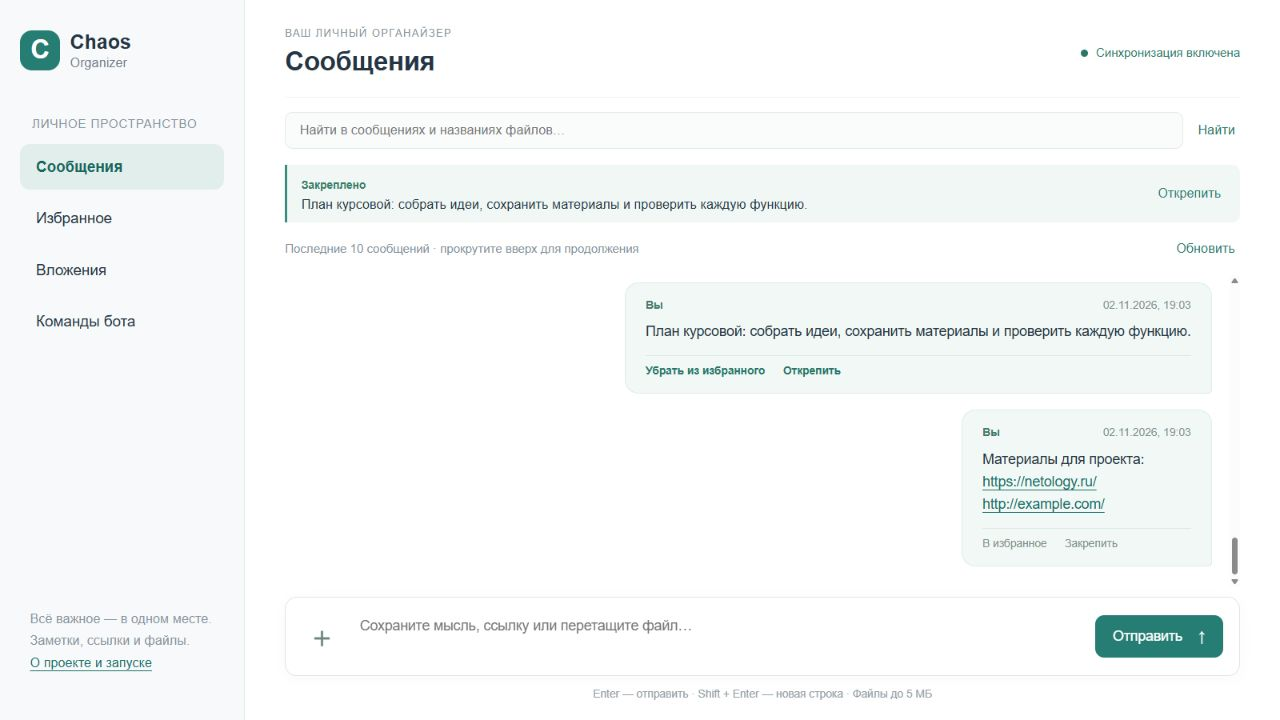
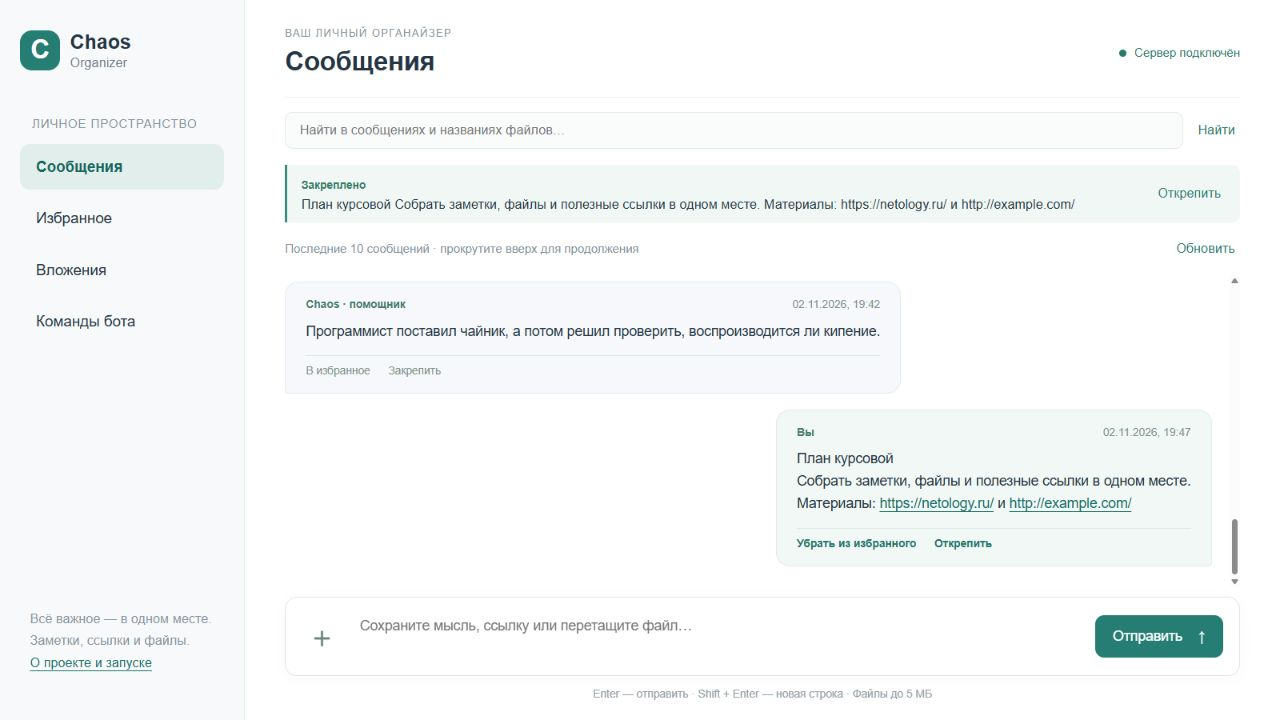
Document verified public deployment

diff --git a/README.md b/README.md
@@ -6,9 +6,9 @@
 
 [Официальное задание](https://github.com/netology-code/ahj-diploma) · [GitHub Pages](https://gody1403.github.io/ahj-diploma/)
 
-**Публичный запуск:** frontend на [GitHub Pages](https://gody1403.github.io/ahj-diploma/) подключается к [backend на Render Free](https://ahj-diploma-api.onrender.com/api/health). Адрес задан переменной GitHub Actions `CHAOS_API_URL`. Проверка публичного подключения выполняется отдельно от локальных проверок. Конфигурация AppVeyor подготовлена, но интеграция с аккаунтом ещё не активирована.
+**Публичный запуск проверен:** frontend на [GitHub Pages](https://gody1403.github.io/ahj-diploma/) подключён к [backend на Render Free](https://ahj-diploma-api.onrender.com/api/health). Адрес задан переменной GitHub Actions `CHAOS_API_URL`. Реальные HTTPS/WSS-запросы и основные сценарии опубликованного приложения проверены 2 ноября 2026 года. Конфигурация AppVeyor подготовлена, подключение аккаунта ещё не подтверждено.
 
-Все изображения ниже — настоящие скриншоты локального приложения с работающим сервером.
+Все изображения ниже — настоящие скриншоты работающего приложения. Главная страница снята на GitHub Pages с backend Render; остальные изображения — при локальной проверке.
 
 ![Главная страница: сообщения, ссылки и закрепление](docs/screenshots/overview.jpg)
 
@@ -141,6 +141,8 @@ npm audit
 
 Ручной workflow **Check public API** проверяет настоящий HTTPS/WSS-сервер из `CHAOS_API_URL`: историю, поиск, файлы и скачанные байты, закрепление, избранное, категории и команды. Он добавляет небольшие проверочные сообщения и файлы в общее демонстрационное пространство. Запускайте его отдельно через Actions → Run workflow.
 
+Публичная проверка [HTTPS/WSS API](https://github.com/GODY1403/ahj-diploma/actions/runs/41482653176) прошла успешно. Непосредственно на GitHub Pages в браузере проверены страницы истории по 10 записей, поиск раннего сообщения, отправка текста и ссылки, загрузка PNG/WAV/WebM кнопкой, скачивание всех четырёх типов файлов, воспроизведение WAV и WebM, закрепление с заменой и откреплением, избранное после обновления страницы, категории, пять команд и синхронизация двух вкладок без дублей. Превышение 5 МБ показывает понятную ошибку и не блокирует дальнейшую работу. Ошибок JavaScript в рабочей сессии не обнаружено. Проверки недоступности сервера и обработчика Drag & Drop выполнены локально; физический жест из Проводника на публичном сайте пока требует ручного подтверждения.
+
 ## API
 
 Все маршруты относятся к одному общему пространству. JSON-запросы передаются с `Content-Type: application/json`.
@@ -174,7 +176,7 @@ Workflow `.github/workflows/pages.yml` запускается при push в `ma
 
 ### Backend на Render Free
 
-Подготовлен `render.yaml`: Node.js 24.22.1, Root Directory `backend`, Build Command `npm ci`, Start Command `npm start`, тариф **Free**, порт из `PORT`, проверка `/api/health`.
+Сервис [ahj-diploma-api.onrender.com](https://ahj-diploma-api.onrender.com/api/health) развёрнут по `render.yaml`: Node.js 24.22.1, Root Directory `backend`, Build Command `npm ci`, Start Command `npm start`, тариф **Free**, порт из `PORT`, проверка `/api/health`. Для повторного развёртывания:
 
 1. Войдите в свой аккаунт Render → New → Blueprint.
 2. Подключите `GODY1403/ahj-diploma`, ветку `main`, и примените `render.yaml`. Перед созданием проверьте тариф **Free**.
@@ -182,7 +184,7 @@ Workflow `.github/workflows/pages.yml` запускается при push в `ma
 4. В GitHub → Settings → Secrets and variables → Actions → Variables добавьте `CHAOS_API_URL` с HTTPS-адресом сервера, заканчивающимся `/`.
 5. Запустите Build and deploy через Actions → Run workflow и проверьте операции на опубликованной странице.
 
-Платные ресурсы не нужны. Публичный запуск не считается подтверждённым, пока реальные операции не проверены через HTTPS API.
+Платные ресурсы не нужны. После повторного развёртывания проверяйте реальные операции через HTTPS API и опубликованный интерфейс.
 
 ### AppVeyor
 
@@ -194,9 +196,9 @@ Workflow `.github/workflows/pages.yml` запускается при push в `ma
 
 ## Ограничения и демонстрационные данные
 
-- Сообщения, избранное, закрепление и загруженные файлы находятся только в памяти процесса. После перезапуска изменения исчезают, а стартовые демоданные создаются заново.
+- Сообщения, избранное, закрепление и загруженные файлы находятся только в памяти процесса. После перезапуска, в том числе при автоматическом развёртывании Render, изменения исчезают, а стартовые демоданные создаются заново.
 - Render Free может засыпать при простое; первый запрос после сна может занять около минуты. Повторное соединение не восстанавливает утраченное содержимое памяти.
 - Это **одно общее пространство без авторизации**. Любой посетитель публичного URL может читать и добавлять данные. Проект не предназначен для конфиденциальной информации или производственной работы.
 - PNG, тон WAV, тестовый ролик WebM и текст в `backend/demo` созданы специально для проекта. Чужие приватные файлы не используются.
 - Поиск и отдельные списки избранного/вложений предназначены для небольшого учебного набора; ленивая серверная пагинация применяется к основной истории.
-- Интеграция AppVeyor требует подключения владельцем. Скриншоты выше подтверждают локальную работу; состояние публичного API проверяется отдельным workflow и в браузере.
+- Интеграция AppVeyor требует подключения владельцем. Публичное приложение проверено отдельно через HTTPS/WSS и в браузере; физический Drag & Drop из Проводника ещё требует ручного подтверждения.
